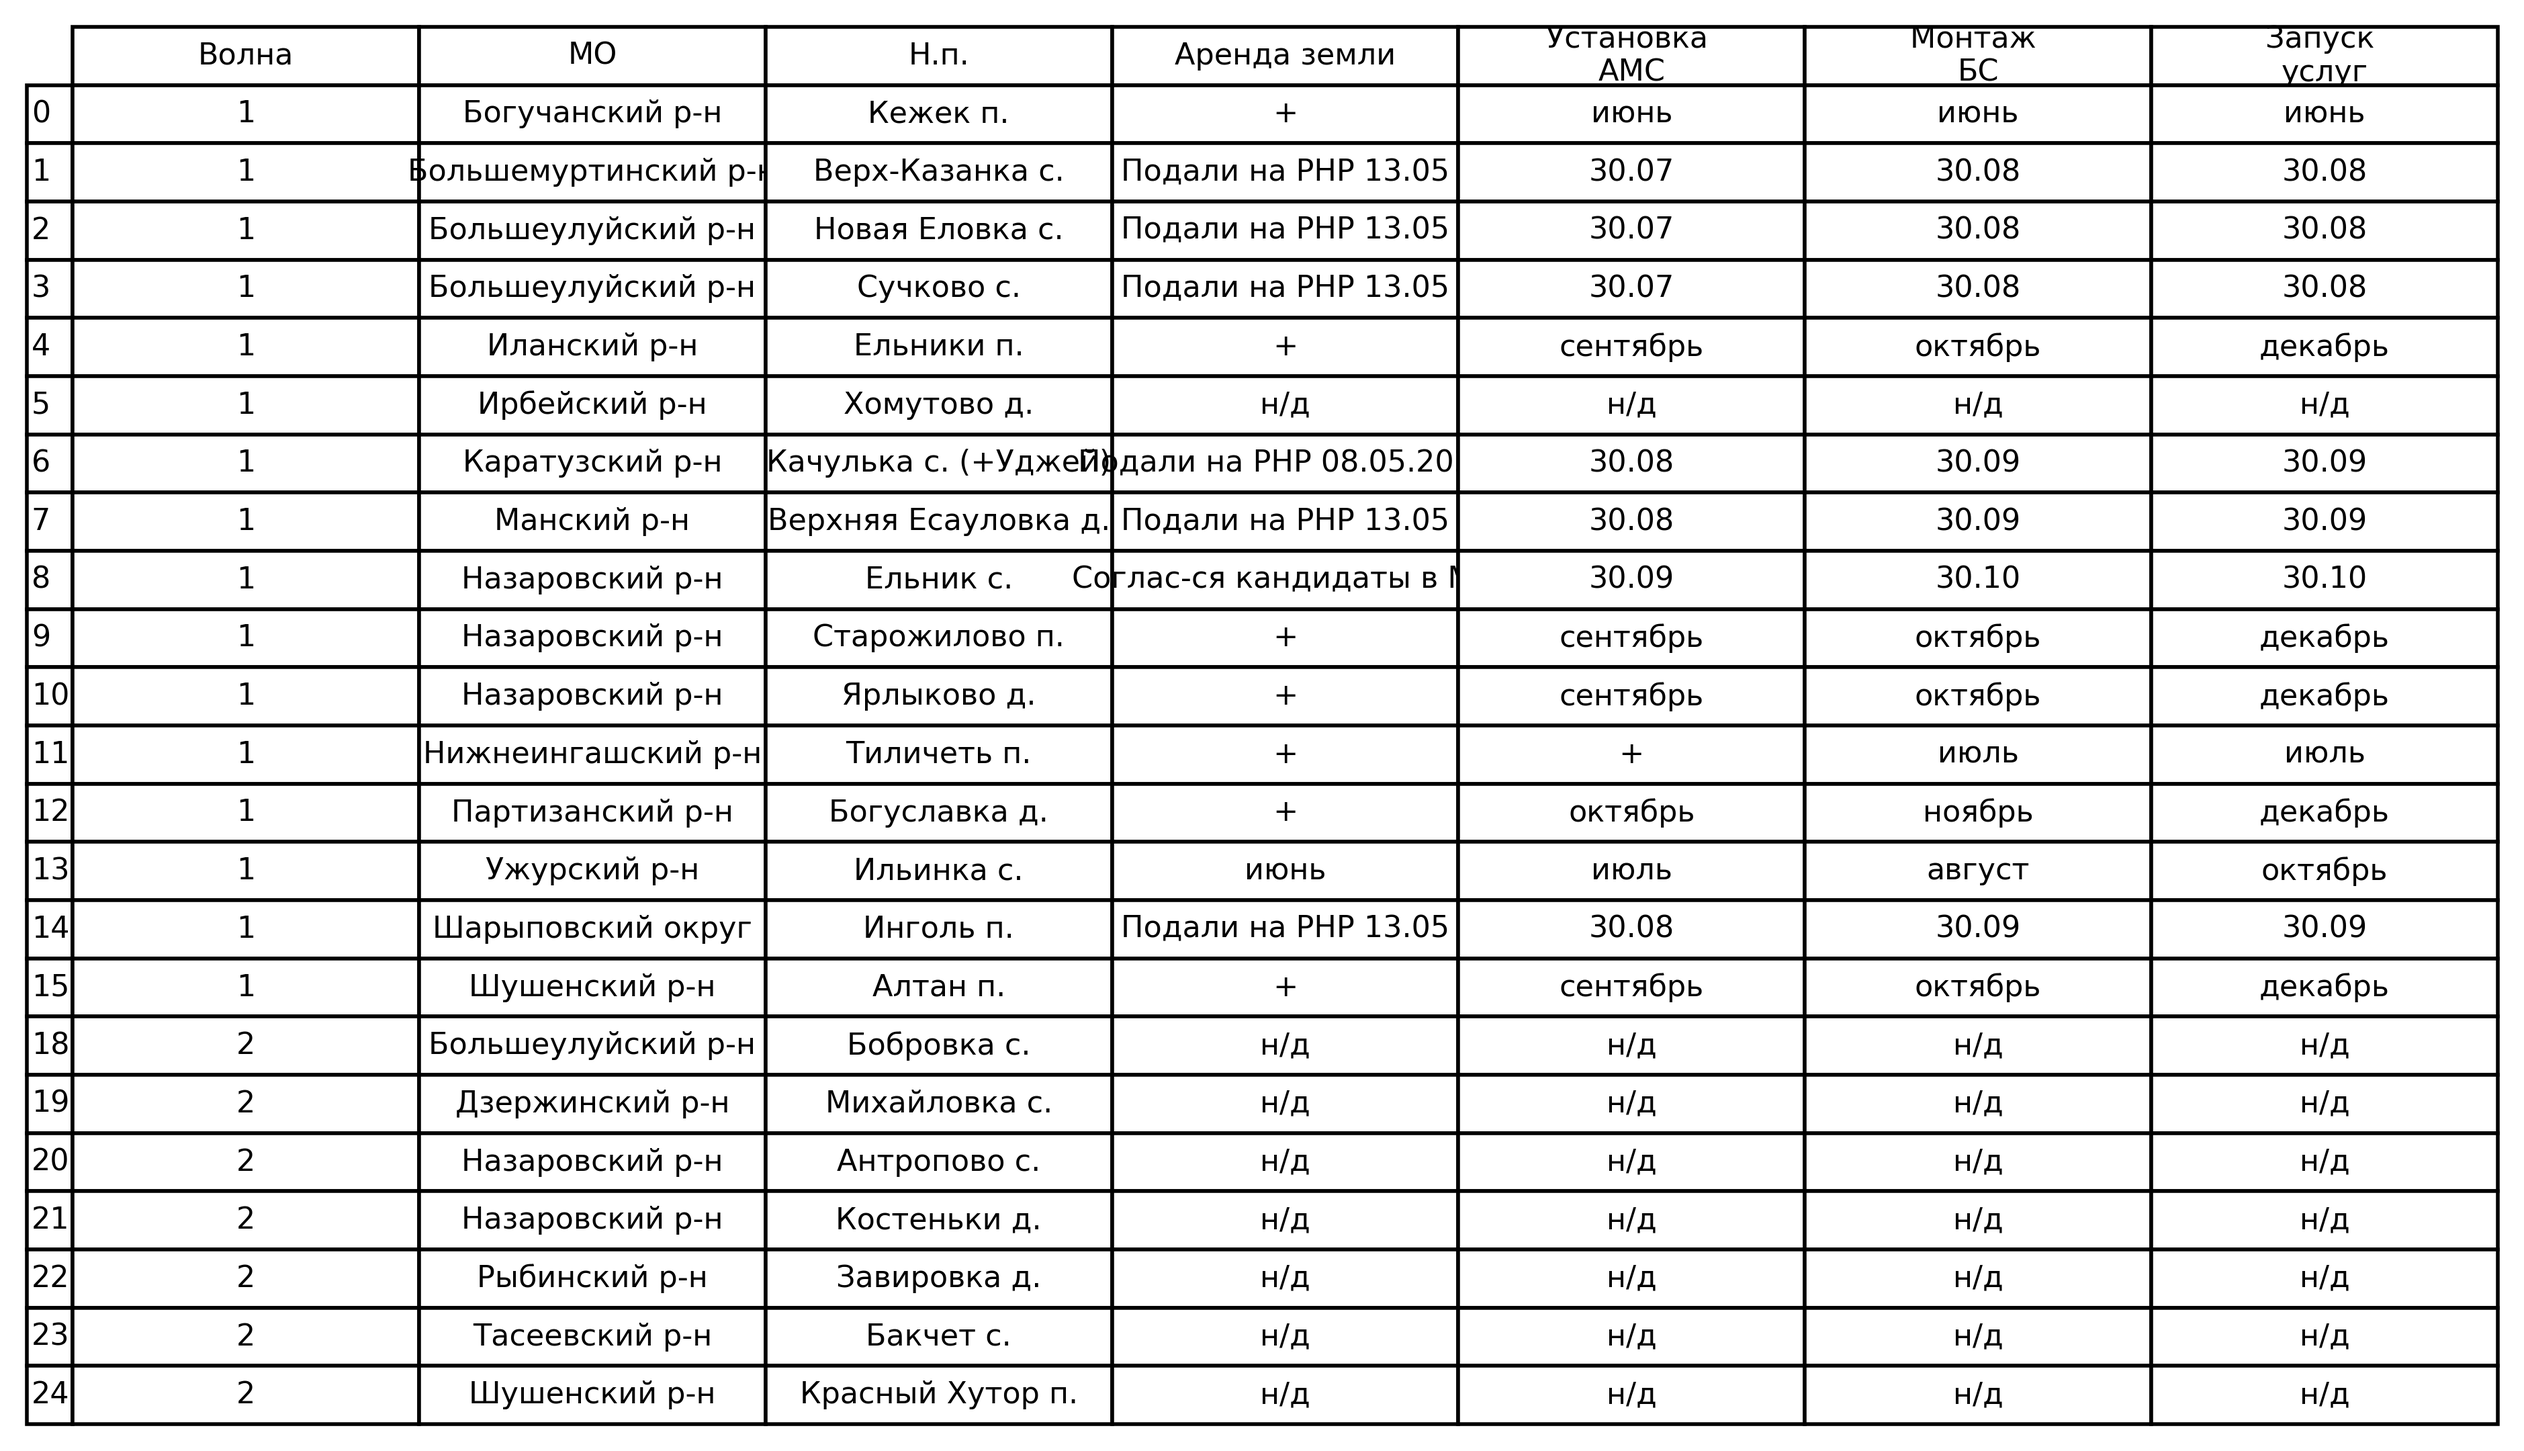
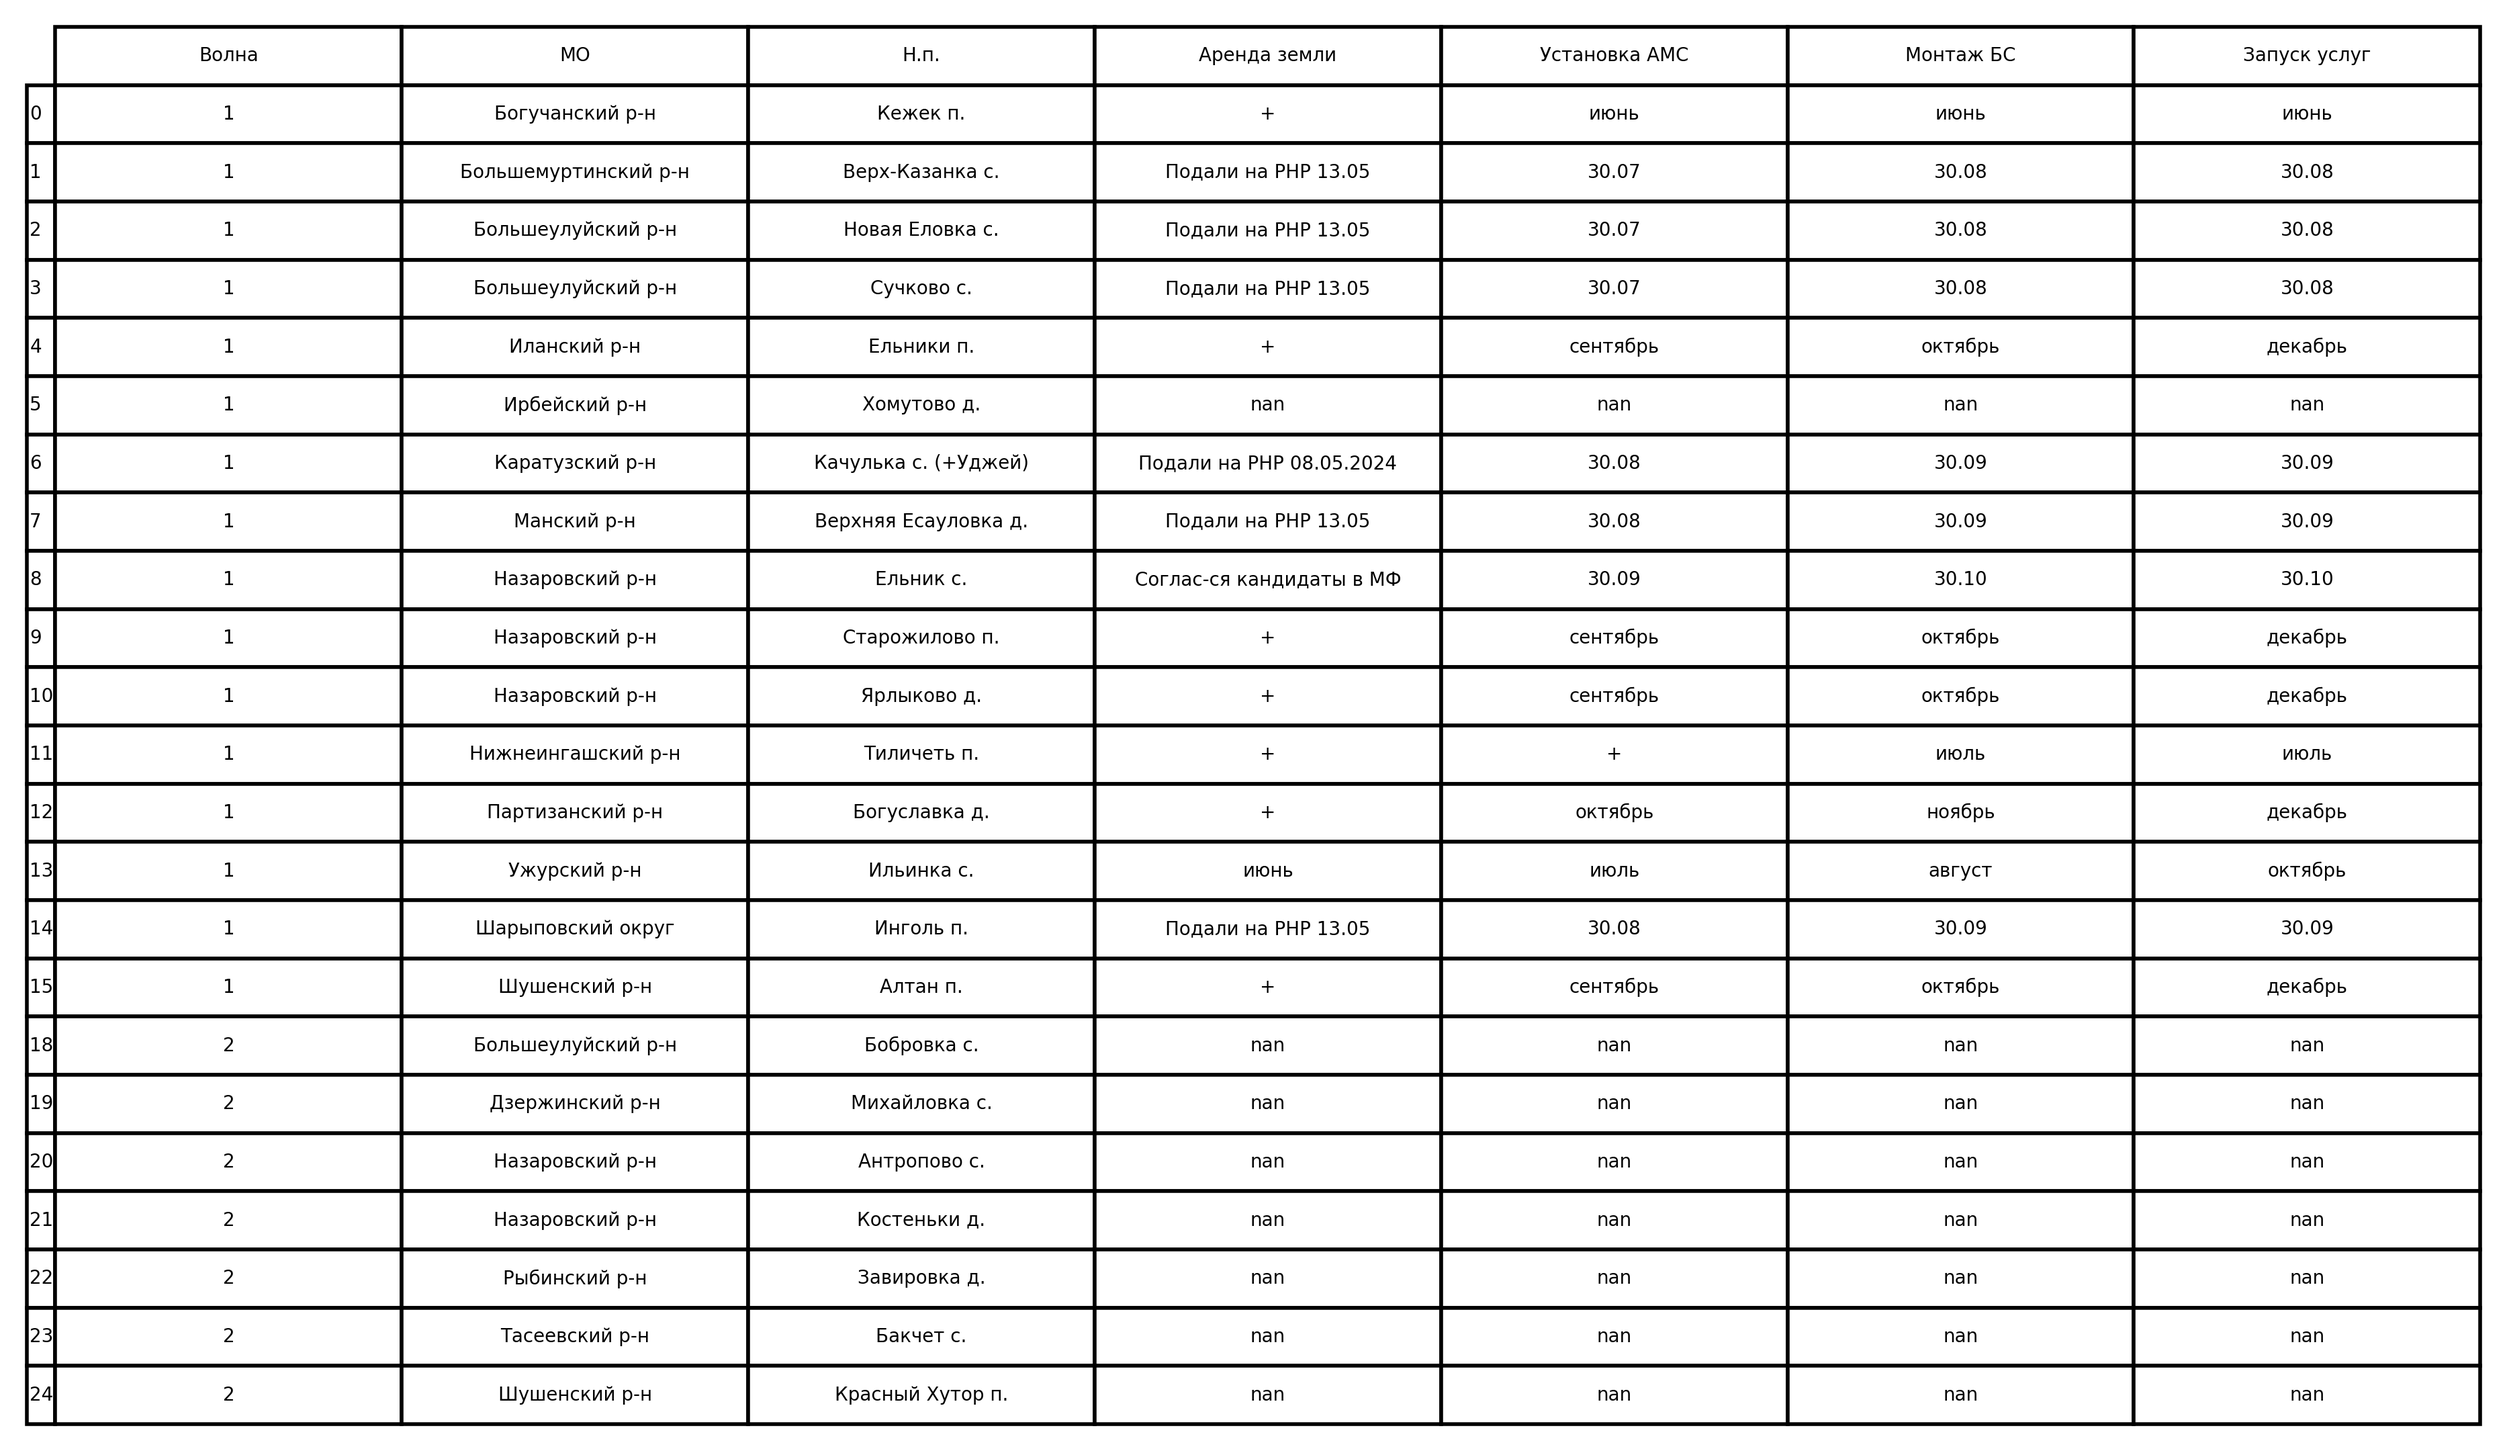
subs functions upgraded

diff --git a/handlers.py b/handlers.py
@@ -14,9 +14,9 @@ from aiogram.utils.keyboard import InlineKeyboardBuilder, ReplyKeyboardBuilder
 from aiogram.types import Message
 from datetime import datetime, time, timedelta, timezone
 import csv
-
+from pandas.plotting import table
 from matplotlib import pyplot as plt
-from images import default_profile
+from images import default_profile, tower
 from mongo_connect import save_staff_dict, save_survey_results
 from google_connections import get_authorized_client_and_spreadsheet, search_subsidies_info, search_yandex_2023_values, search_in_pokazatel_504p, search_in_ucn2, search_schools_values, load_otpusk_data, search_values, search_values_levenshtein, search_szoreg_values, get_value, init_redis
 from mongo_connect import search_survey_results
@@ -37,7 +37,7 @@ import json
 from animations_providers import (megafon_id, mts_id, tele2_id, beeline_id)
 from main import bot
 from google_connections import init_redis
-import imgkit
+
 
 
 info_text_storage = {}
@@ -84,6 +84,7 @@ async def log_user_data_from_message(message):
 class Form(StatesGroup):
     default = State()
     waiting_for_number = State()
+    development = State()
 
 
 class Survey(StatesGroup):
@@ -121,17 +122,35 @@ def get_employees_on_vacation(otpusk_data, days_ahead=3):
     ic(employees_starting_vacation_soon)
     return employees_on_vacation, employees_starting_vacation_soon
 
-@main_router.message(Command('subsidies'))
-async def handle_subsidies_command(message: types.Message):
-
-    from pandas.plotting import table
 
 
-    # hide the y axis
+@main_router.message(Command('development'))
+async def handle_development(message: types.Message, state: FSMContext):
+    await state.set_state(Form.development)
+    builder = InlineKeyboardBuilder()
 
+    markup = InlineKeyboardMarkup(inline_keyboard=[
+        [InlineKeyboardButton(
+            text=f"Субсидия", callback_data='subsidies')],
+        [InlineKeyboardButton(
+            text=f"Главное меню", callback_data='main_menu')]
+        
+    ])
+    builder.attach(InlineKeyboardBuilder.from_markup(markup))
+
+
+    await message.answer_photo(photo=tower, caption=f'Вы находитесь в меню реализации проектов'
+                               'выберите проект или можете выйти в главное меню', reply_markup=markup)
     
 
+@main_router.callback_query(F.data.contains("subsidies"), StateFilter(Form.development))
+async def handle_subsidies_query(query: types.CallbackQuery, state: FSMContext):
+    data = query.data
+    
+    
+    from main import bot
     subsidies_df = await search_subsidies_info()
+    ic(subsidies_df)
     
     subsidies_df = subsidies_df.dropna(subset=['МО', 'Н.п.'])
     def format_date(date_str):
@@ -145,16 +164,13 @@ async def handle_subsidies_command(message: types.Message):
     for col in date_columns:
         subsidies_df[col] = subsidies_df[col].apply(format_date)
 
-    subsidies_df = subsidies_df.fillna('н/д').infer_objects(copy=False)
-
     subsidies_df['Волна'] = subsidies_df.apply(lambda x: '1' if x['НПА'] == '1013-п' else '2', axis=1)
-    #subsidies_df['Волна'] = subsidies_df['Волна']
-
-    #subsidies_df['MO'] = subsidies_df['MO']
     
 
- 
-    subsidies_response = subsidies_df[['Волна','МО', 'Н.п.','Аренда земли', 'Установка \nАМС', 'Монтаж \nБС', 'Запуск \nуслуг']]
+    subsidies_df = subsidies_df.rename(columns ={'Установка \nАМС':'Установка АМС', 'Монтаж \nБС':'Монтаж БС', 'Запуск \nуслуг':'Запуск услуг'})
+    subsidies_response = subsidies_df[['Волна','МО', 'Н.п.','Аренда земли', 'Установка АМС', 'Монтаж БС', 'Запуск услуг']]
+    
+    subsidies_response.style.format(na_rep='нет данных')
     subsidies_response.to_excel('subsid.xlsx')
     
     
@@ -162,8 +178,8 @@ async def handle_subsidies_command(message: types.Message):
     ax.axis('tight')
     ax.axis('off')
     tbl = table(ax, subsidies_response, loc='center', cellLoc='center', colWidths=[0.2]*len(subsidies_response.columns)) 
-    tbl.auto_set_font_size(False)
-    tbl.set_fontsize(8)
+    tbl.auto_set_font_size(True)
+    #tbl.set_fontsize(8)
     tbl.scale(1.3, 1.3)
     
     # Сохранение изображения
@@ -173,15 +189,38 @@ async def handle_subsidies_command(message: types.Message):
     # Отправка изображения с помощью aiogram
     photo = FSInputFile('mytable.png')
     subs_table = FSInputFile('subsid.xlsx')
-    await message.answer_document(subs_table)
-    await message.answer_photo(photo)
 
-    
-    
-   # await message.answer_photo('mytable.png')
-    #response_text = subsidies_response.to_string(header=[])
 
-   # await message.answer(f'{response_text}', parse_mode='HTML')
+    builder = InlineKeyboardBuilder()
+
+    markup = InlineKeyboardMarkup(inline_keyboard=[
+        [InlineKeyboardButton(
+            text=f"Главное меню", callback_data='main_menu')]
+        
+    ])
+    builder.attach(InlineKeyboardBuilder.from_markup(markup))
+
+    #await query.message.answer_document(subs_table)
+    await bot.delete_message(chat_id=query.message.chat.id, message_id=query.message.message_id)
+    await query.message.answer_photo(photo, caption='Реализации предоставления субсидии малочисленным населенным пунктам', reply_markup=markup)
+
+
+
+@main_router.callback_query(F.data.contains("main_menu"))
+async def handle_subsidies_query(query: types.CallbackQuery, state: FSMContext):
+    await bot.delete_message(chat_id=query.message.chat.id, message_id=query.message.message_id)
+    await state.clear()
+    await query.message.answer(f'Вы в главном меню. \nВведите название населенного пункта, чтобы получить '
+                               'информацию о качестве связи или пройти опрос\nТакже есть команды: /otpusk - узнать кто в отпуске\n'
+                               '/development - информация о проектах министерства')
+
+
+@main_router.message(Command('help'))
+async def handle_help(message: types.Message, state: FSMContext):
+    await state.clear()
+    await message.answer(f'\nВведите название населенного пункта, чтобы получить '
+                               'информацию о качестве связи или пройти опрос\nТакже есть команды: /otpusk - узнать кто в отпуске\n'
+                               '/development - информация о проектах министерства')
 
 
 @main_router.message(Command('bi'))
@@ -241,7 +280,13 @@ async def handle_start(message: Message, state: FSMContext):
         f'Я бот министерства цифрового развития Красноярского края!'
         '\n Введи наименование любого населенного пункта края, '
 
-        'чтобы получить информацию о связи в нем или оставить обратную связь о качестве услуг\n')
+        'чтобы получить информацию о связи в нем или оставить обратную связь о качестве услуг\n\n'
+        'Также есть команды: /otpusk - узнать кто в отпуске\n'
+                               '/development - информация о проектах министерства'
+        )
+    
+    await state.clear()
+    
 
 
 @main_router.message(F.location)

diff --git a/main.py b/main.py
@@ -60,8 +60,8 @@ async def on_startup():
         await load_values(spreadsheet, redis)
         await load_subsidies_file()
         #await load_szoreg_values(spreadsheet, redis)
-        #await load_pokazatel_504p_values(spreadsheet, redis)
-        #await load_schools_values(spreadsheet, redis)
+        await load_pokazatel_504p_values(spreadsheet, redis)
+        await load_schools_values(spreadsheet, redis)
         #await load_yandex_2023_values(spreadsheet, redis)
         #await load_ucn2_values(spreadsheet, redis)
         #await load_survey_values(spreadsheet, redis)

diff --git a/images.py b/images.py
@@ -1,1 +1,2 @@
[2 lines of base64/hex data omitted]
